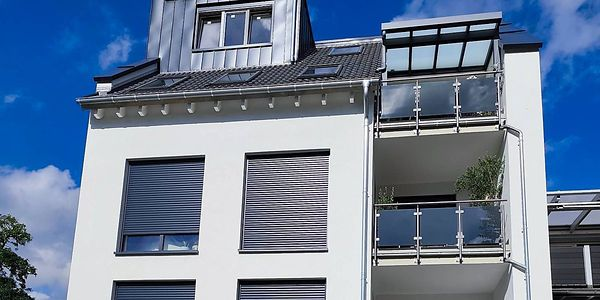
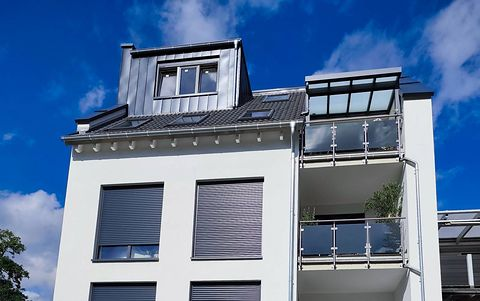
vorschau: claude/affectionate-thompson-uq3amz

diff --git a/vorschau/claude-affectionate-thompson-uq3amz/index.html b/vorschau/claude-affectionate-thompson-uq3amz/index.html
@@ -802,6 +802,9 @@
      nur eine Zeile <img class="wechsel" ...> in der jeweiligen Karte. */
   .service-img img.wechsel{position:absolute;inset:0;width:100%;height:100%;object-fit:cover;opacity:0;transition:opacity 1.6s ease, transform .6s cubic-bezier(.25,.8,.25,1);}
   .service-img img.wechsel.aktiv{opacity:1;}
+  /* Fotos mit Himmel oben am oberen Rand ausrichten, damit Dach und
+     Himmel bei breiten Karten nicht abgeschnitten werden. */
+  .service-img img.wechsel.lage-oben{object-position:50% 0;}
   .service-shade{z-index:3;}
   .service-card.ep-gross .service-img img.wechsel{height:100%;object-fit:cover;}
   .service-body{position:relative;padding:clamp(9px,calc(var(--sh) * 1.4),34px) clamp(18px,2vw,34px) clamp(10px,calc(var(--sh) * 1.5),38px);display:flex;flex-direction:column;gap:clamp(5px,calc(var(--sh) * 0.9),12px);flex:1;}
@@ -838,7 +841,7 @@
      168 s wurden erwogen, um das Tempo von vor der Hoehenaenderung
      wiederherzustellen, und verworfen: bei 8 bis 12 px/s merkt kaum jemand
      noch, dass sich etwas bewegt. */
-  .marquee-track.slow{animation-duration:168s;}
+  .marquee-track.slow{animation-duration:166s;}
   /* Die Laufzeit haengt an der Breite einer Gruppe, damit das Band immer
      gleich schnell laeuft, egal wie viele Marken drinstehen. Massstab sind
      die urspruenglichen elf Namen: 1687 Pixel in 54 Sekunden, also rund 31
@@ -1336,7 +1339,7 @@
     <div class="service-card" data-reveal>
       <div class="service-img">
         <img class="zeichnung" src="installationszonen.png" alt="Zeichnung eines Raums mit den Installationszonen: 30 cm unter der Decke und ueber dem Boden, 15 cm neben Ecken, 20 cm neben Tueren und Fenstern, Schalter auf 115 cm Hoehe" loading="lazy">
-        <img class="wechsel" src="leistung-elektroinstallation-2.jpg" alt="Neubau Mehrfamilienhaus, Elektroinstallation durch Elektrotechnik Paulus" loading="lazy">
+        <img class="wechsel lage-oben" src="leistung-elektroinstallation-2.jpg" alt="Neubau Mehrfamilienhaus, Elektroinstallation durch Elektrotechnik Paulus" loading="lazy">
         <div class="service-shade"></div>
       </div>
       <div class="service-body">
